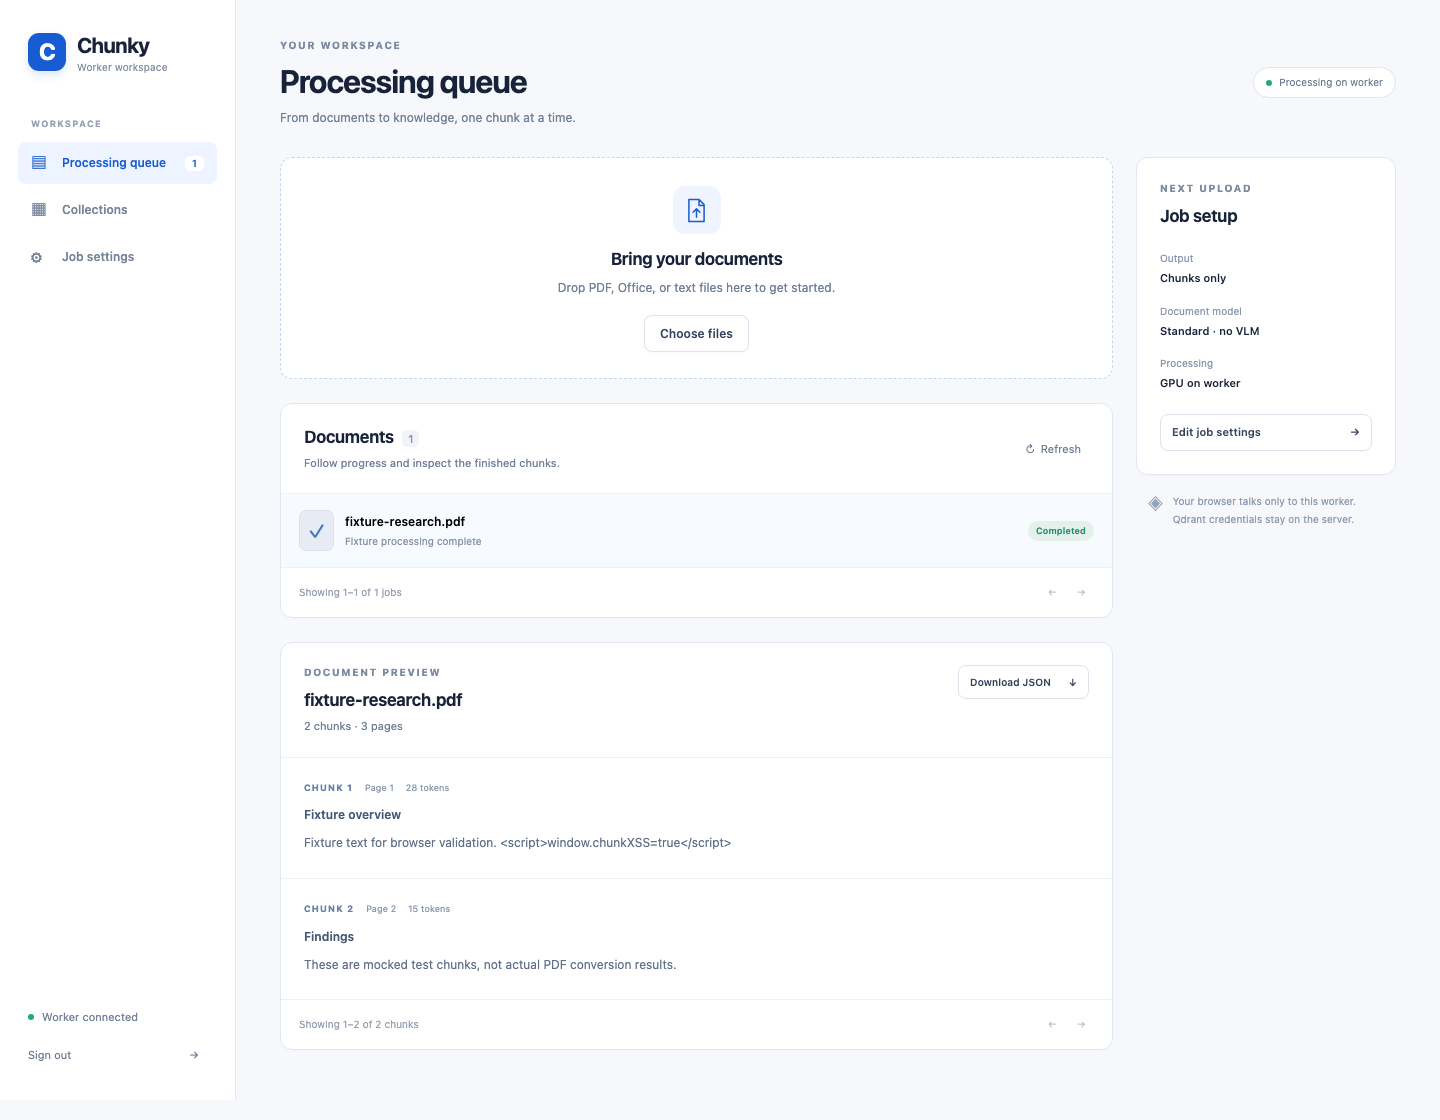
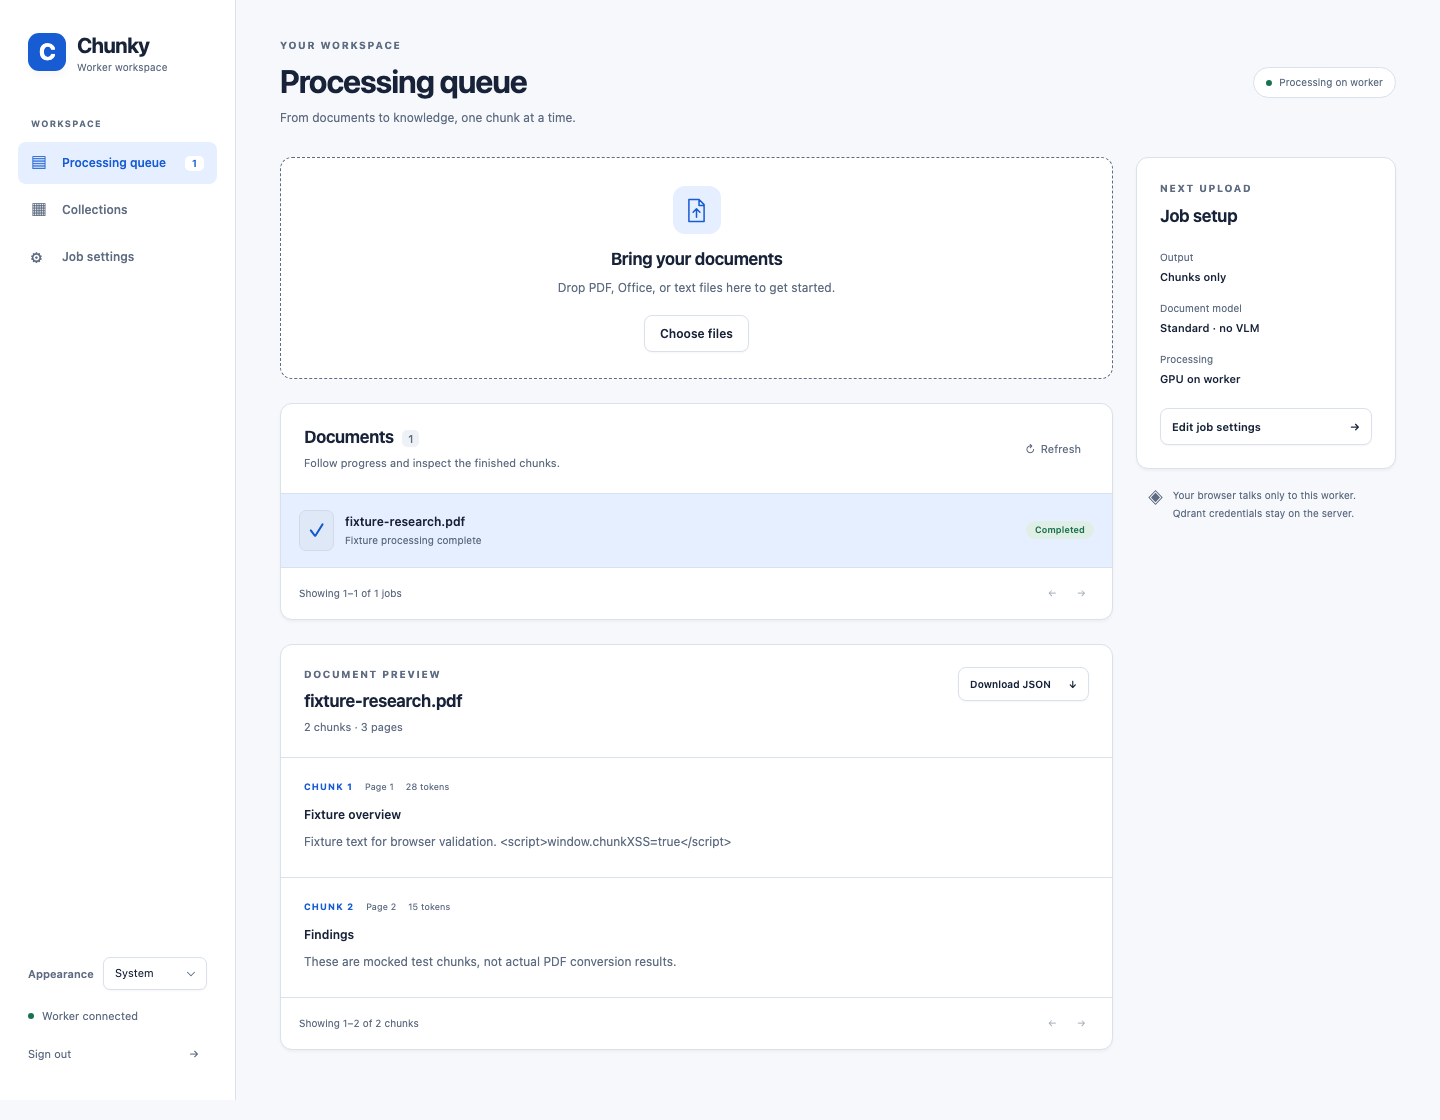
docs(web): publish actual macOS light and dark captures (PER-187)

diff --git a/docs/web-ui.md b/docs/web-ui.md
@@ -75,3 +75,9 @@ Collections with unknown embedding identity remain available for read-only brows
 Search uses the existing authenticated `/v1/search` engine with `use_worker_qdrant=true`. This pins Qdrant access to the configured server and validates model identity, endpoint fingerprint, dimensions, distance, and vector layout before querying. Dense search also works in a matching hybrid collection; hybrid search requires an existing hybrid layout. Browser reads and searches do not create indexes, adopt metadata, or change collection settings. Legacy app/API search retains its existing behavior.
 
 Results show semantic scores, chunk text, source, and page metadata when present. Each search page requests 10 hits with an explicit offset and continuation; paging is a fresh query against the current collection, so concurrent writes can change rankings. This workspace does not promise a frozen search snapshot or modify stored points.
+
+The light and dark captures below came from macOS browser CI run [43977623510](https://github.com/hansdoebel/chunky/actions/runs/43977623510), with nonblank PNG assertions. All displayed documents and scores are mocked test fixtures.
+
+![Dark worker workspace](images/web-dark-workspace.png)
+
+![Dark mobile workspace](images/web-dark-mobile.png)
